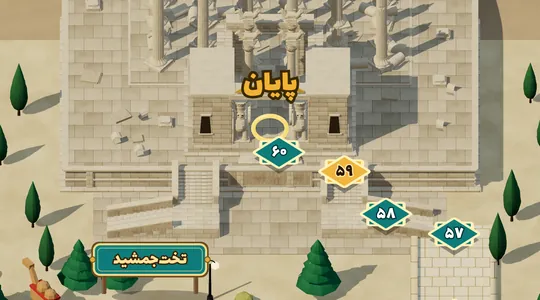
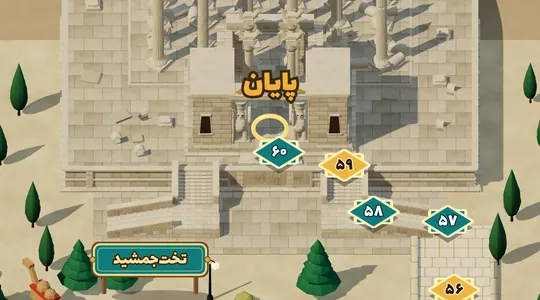
Shiraz board: roomier Karim Khan / Nasir al-Mulk scene, tidy join with Persepolis
Claude-Session: https://claude.ai/code/session_01Rjy4C5wyMsBPrp6gT8ag68

Changed region(s): [[0.6222, 0.63, 0.8889, 0.87], [0.5926, 0.48, 0.7111, 0.66], [0.7704, 0.9, 0.8889, 1.0]]

diff --git a/js/maps.js b/js/maps.js
@@ -14,8 +14,8 @@ const MAPS = [
     cities: ['دروازهی قرآن','حافظیه','باغ ارم','ارگ کریمخان','تختجمشید'],
     finish: 'تختجمشید', goalText: 'به تختجمشید رسیدی! کورش و داریوش منتظرتاند',
     image: 'assets/map-shiraz.webp', lite: 'assets/map-shiraz-lite.webp', preview: 'assets/map-shiraz-prev.webp', ratio: 2160 / 11880,
-    coords: [[46.16, 98.56], [31.189, 98.428], [23.333, 96.609], [31.327, 94.814], [46.363, 94.803], [61.399, 94.803], [75.647, 94.283], [73.692, 91.793], [58.829, 91.567], [50.0, 89.917], [50.0, 83.733], [50.0, 80.999], [43.871, 79.295], [28.881, 79.08], [23.333, 77.21], [29.972, 75.191], [45.0, 75.157], [60.036, 75.157], [74.702, 74.814], [76.667, 72.188], [65.747, 70.915], [51.339, 70.459], [50.0, 67.785], [50.0, 65.051], [50.0, 62.317], [50.406, 59.591], [63.865, 58.844], [78.541, 58.507], [80.556, 55.886], [71.362, 54.3], [56.326, 54.298], [41.289, 54.298], [26.253, 54.295], [17.222, 52.681], [17.222, 49.948], [17.222, 47.214], [18.798, 44.515], [25.465, 42.07], [26.667, 39.359], [26.667, 36.625], [34.848, 34.863], [49.884, 34.854], [64.92, 34.854], [75.556, 33.529], [74.545, 30.832], [60.307, 30.308], [45.271, 30.308], [30.346, 30.141], [26.667, 27.698], [26.667, 24.964], [26.667, 22.23], [32.355, 20.068], [47.374, 20.01], [62.411, 20.01], [77.356, 20.247], [84.1, 18.313], [84.1, 15.579], [71.461, 14.912], [63.778, 13.485], [51.666, 12.841]],
-    cellCity: [0, 0, 0, 0, 0, 0, 0, 0, 0, 0, 0, 0, 0, 1, 1, 1, 1, 1, 1, 1, 1, 1, 1, 1, 1, 2, 2, 2, 2, 2, 2, 2, 2, 2, 2, 2, 2, 2, 3, 3, 3, 3, 3, 3, 3, 3, 3, 3, 3, 3, 3, 4, 4, 4, 4, 4, 4, 4, 4, 4],
+    coords: [[46.16, 98.56], [32.347, 98.437], [23.333, 97.031], [27.902, 94.914], [41.724, 94.803], [55.601, 94.803], [69.474, 94.783], [76.667, 93.062], [68.104, 91.577], [54.292, 91.448], [50.0, 89.292], [50.0, 83.319], [50.0, 80.795], [43.909, 79.296], [30.075, 79.097], [23.333, 77.639], [26.594, 75.357], [40.323, 75.157], [54.2, 75.157], [68.077, 75.151], [76.667, 73.671], [74.693, 71.256], [61.185, 70.915], [50.065, 69.9], [50.0, 67.377], [50.0, 64.854], [50.0, 62.331], [50.149, 59.811], [61.469, 58.844], [75.314, 58.765], [80.556, 56.743], [77.105, 54.484], [63.36, 54.298], [49.483, 54.298], [35.606, 54.298], [21.784, 54.188], [17.222, 52.07], [17.222, 49.547], [17.222, 47.024], [18.756, 44.534], [25.037, 42.288], [27.297, 39.815], [36.635, 37.995], [36.994, 35.636], [27.522, 33.829], [28.544, 31.398], [38.021, 29.592], [35.223, 27.282], [26.781, 25.376], [26.667, 22.854], [28.254, 20.418], [41.614, 20.01], [55.491, 20.01], [69.358, 20.047], [82.649, 19.925], [84.1, 17.47], [82.91, 15.163], [69.171, 14.846], [63.778, 13.274], [51.666, 12.841]],
+    cellCity: [0, 0, 0, 0, 0, 0, 0, 0, 0, 0, 0, 0, 0, 0, 1, 1, 1, 1, 1, 1, 1, 1, 1, 1, 1, 1, 1, 1, 2, 2, 2, 2, 2, 2, 2, 2, 2, 2, 2, 2, 2, 3, 3, 3, 3, 3, 3, 3, 3, 3, 4, 4, 4, 4, 4, 4, 4, 4, 4, 4],
     fx: false, price: 150
   }
 ];

diff --git a/sw.js b/sw.js
@@ -1,5 +1,5 @@
 // نخ بده — offline support
-const CACHE = 'nakh-bede-v74';
+const CACHE = 'nakh-bede-v75';
 // The board image is large; it is fetched after install, in the background, so it
 // never competes with the first screen. (It is also cached the first time it is used.)
 // The board image is fetched by the page itself (it picks the full or the lite size)
